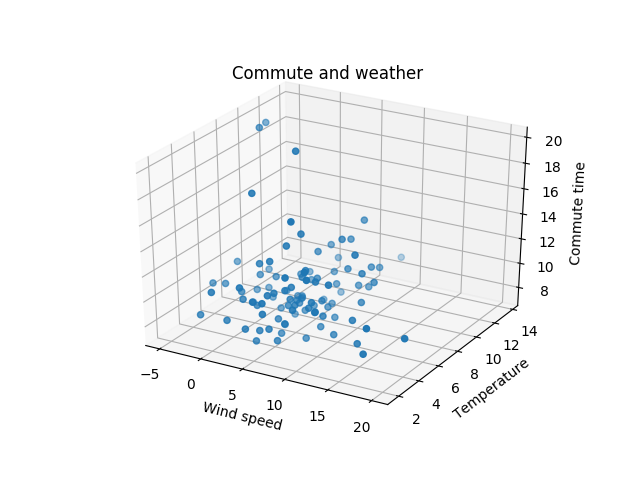
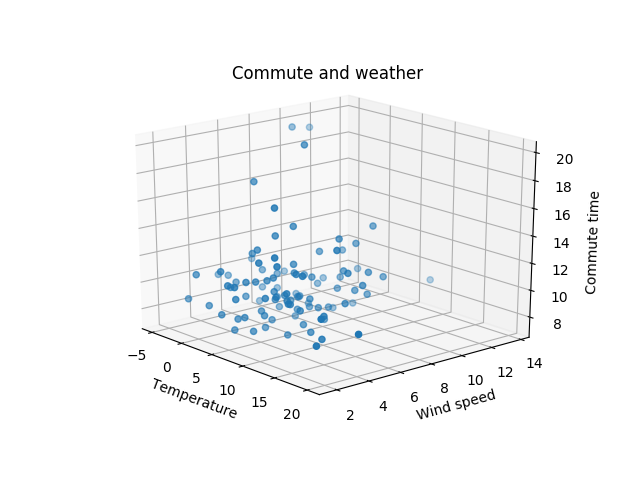
#N/A: Fix 3d plot axis labels

Changed region(s): [[0.2188, 0.1875, 0.9375, 0.9062]]

diff --git a/_posts/2018-05-01-commute.md b/_posts/2018-05-01-commute.md
@@ -266,7 +266,7 @@ ax.grid()
 ax.scatter([weather[commute.day].temperature for commute in normalized],
            [weather[commute.day].windspeed for commute in normalized],
            [commute.took.total_seconds() / 60 for commute in normalized])
-ax.set(xlabel='Wind speed', ylabel='Temperature', zlabel='Commute time',
+ax.set(xlabel='Temperature', ylabel='Wind speed', zlabel='Commute time',
        title='Commute and weather')
 ax.legend()
 pyplot.show()
